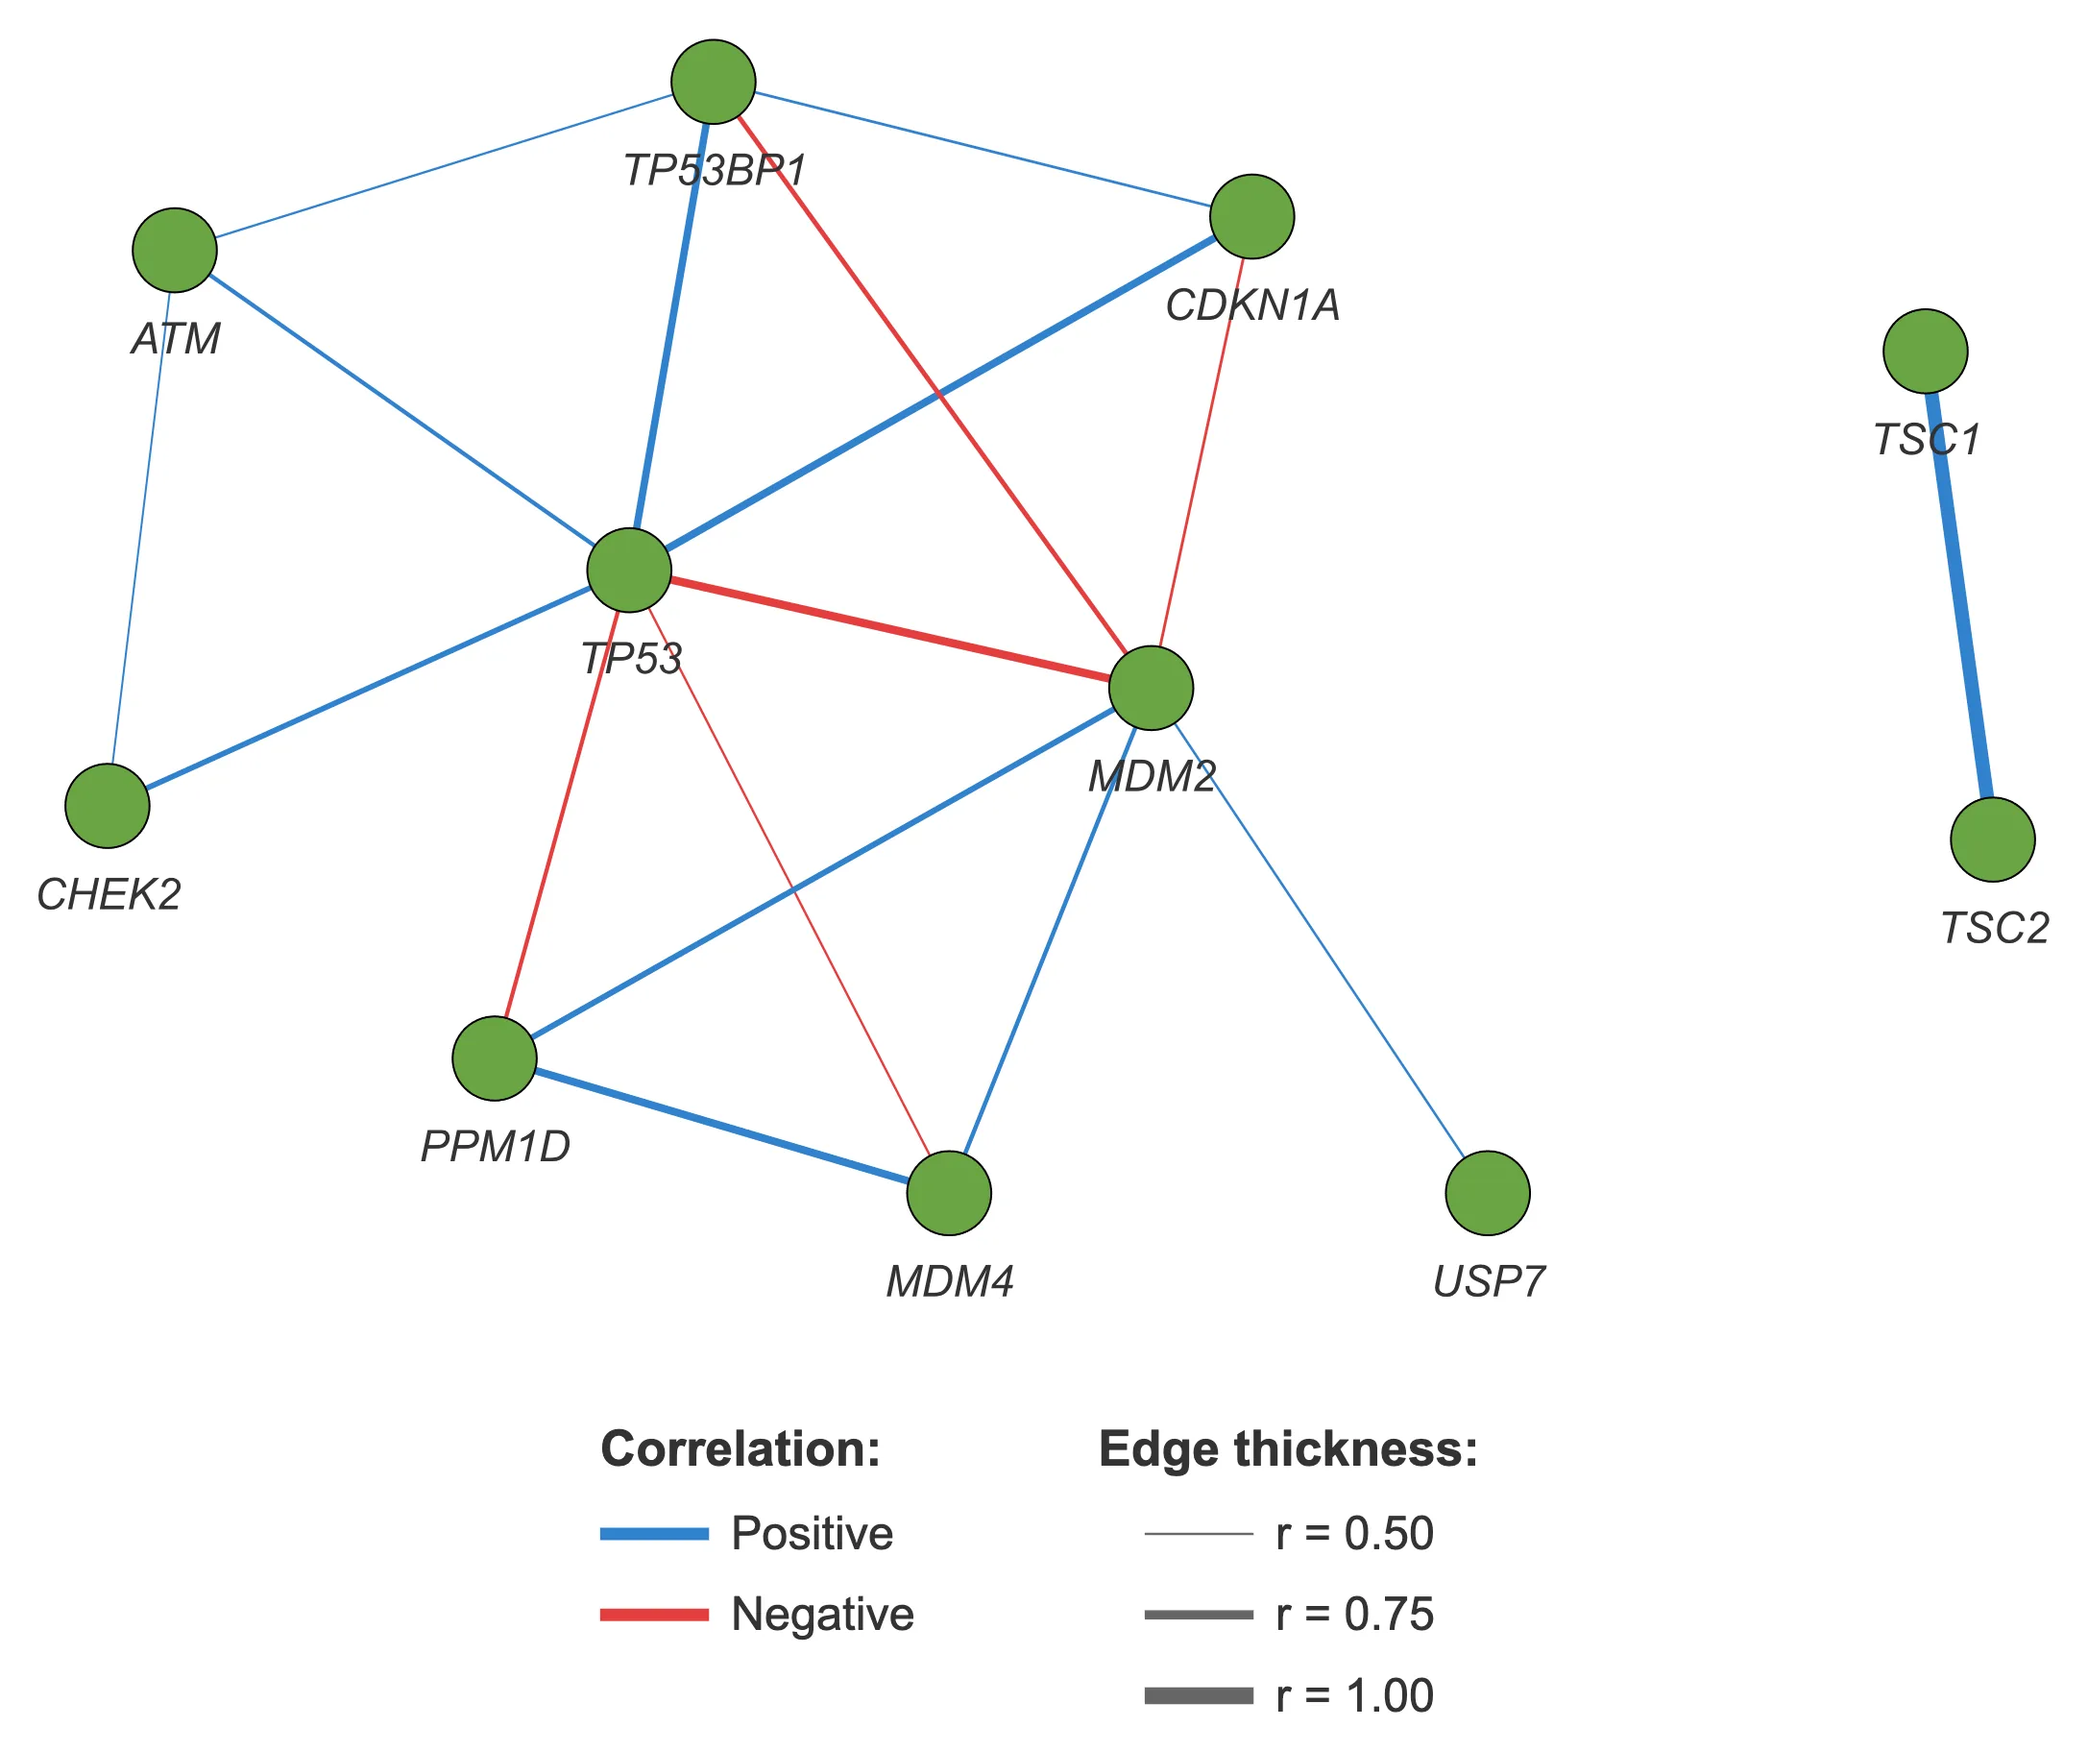
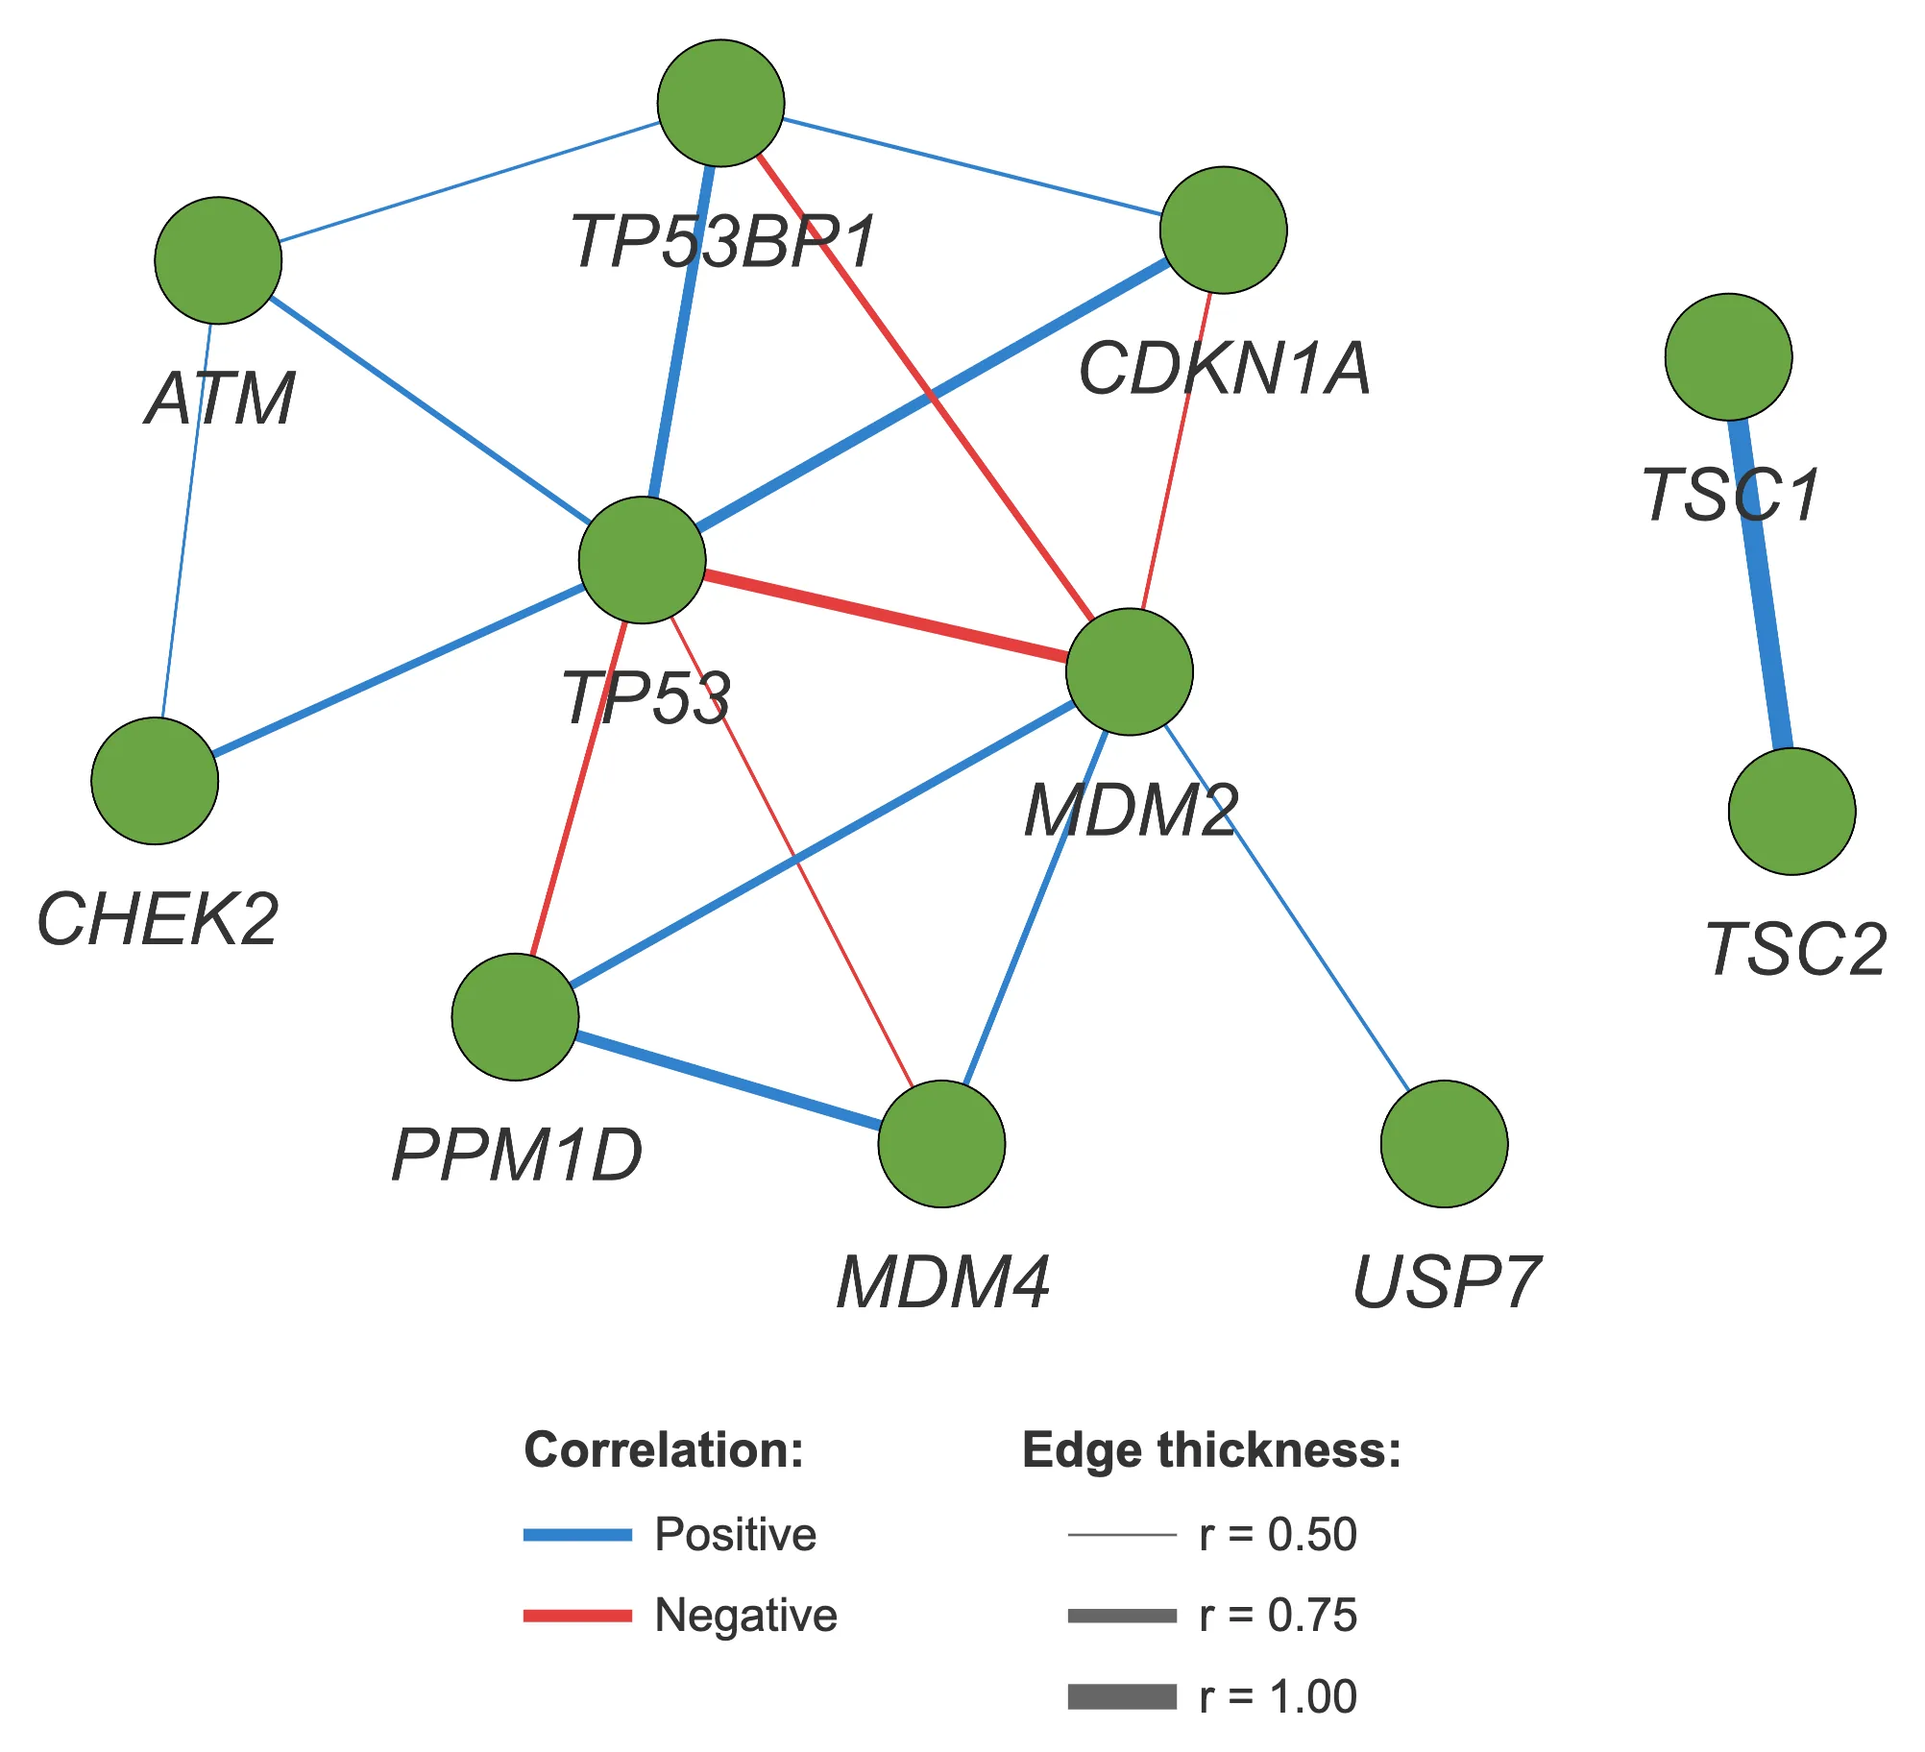
v.91.19: tour opening: the DepMap sentence is the heading and mentions the other databases, larger opening text, first network figure smaller and re-exported with larger gene labels
Claude-Session: https://claude.ai/code/session_01GrRsah6zkLaafT5s7nhzFW

diff --git a/tour.js b/tour.js
@@ -180,9 +180,8 @@
 
 <section class="tour-hero">
     <div class="tour-wrap">
-        <p class="tour-eyebrow">Correlate</p>
-        <h1>Omics data from 1,000+ human cancer cell lines, in one app.</h1>
-        <p class="tour-sub">Correlate brings together CRISPR knockout screens, mRNA expression, mutations, copy number and drug response from DepMap, and connects them. Use it to:</p>
+        <h1>Correlate brings together CRISPR knockout screens, mRNA expression, mutations, copy number and drug response from DepMap, adds gene and cell line information from many other databases, and connects them.</h1>
+        <p class="tour-sub">Use it to:</p>
         <ul class="tour-hero-list">
             <li>Find connections between genes from unbiased correlations of CRISPR gene effect or mRNA across the cell lines.</li>
             <li>Find cell lines with specific mutations and mutation patterns, and compare omics data between groups of cell lines.</li>
@@ -359,10 +358,10 @@
 #tourPage .tour-eyebrow { font-size: 12px; font-weight: 700; letter-spacing: .12em; text-transform: uppercase; color: #5d9239; margin: 0 0 10px; }
 #tourPage .tour-hero { background: linear-gradient(160deg, #1f3a12 0%, #3b5e23 55%, #4f7f30 100%); color: #fff; padding: 64px 0 0; position: relative; display: flow-root; }
 #tourPage .tour-hero .tour-eyebrow { color: #b9dd9a; }
-#tourPage .tour-hero h1 { font-size: 46px; line-height: 1.08; font-weight: 800; letter-spacing: -.02em; margin: 0 0 18px; max-width: 760px; }
-#tourPage .tour-sub { font-size: 18px; line-height: 1.6; color: #e3efd8; max-width: 720px; margin: 0 0 14px; }
-#tourPage .tour-hero-list { list-style: none; margin: 0 0 26px; padding: 0; max-width: 720px; }
-#tourPage .tour-hero-list li { font-size: 17px; line-height: 1.5; color: #fff; padding: 4px 0 4px 26px; position: relative; }
+#tourPage .tour-hero h1 { font-size: 34px; line-height: 1.25; font-weight: 700; letter-spacing: -.01em; margin: 0 0 18px; max-width: 980px; }
+#tourPage .tour-sub { font-size: 21px; line-height: 1.6; color: #e3efd8; max-width: 800px; margin: 0 0 6px; }
+#tourPage .tour-hero-list { list-style: none; margin: 0 0 26px; padding: 0; max-width: 800px; }
+#tourPage .tour-hero-list li { font-size: 20px; line-height: 1.5; color: #fff; padding: 4px 0 4px 26px; position: relative; }
 #tourPage .tour-hero-list li::before { content: ''; position: absolute; left: 4px; top: 13px; width: 9px; height: 9px; border-radius: 50%; background: #b9dd9a; }
 #tourPage .tour-cta { display: flex; flex-wrap: wrap; gap: 10px; margin-top: 18px; }
 #tourPage .tour-cta-center { justify-content: center; margin: 28px 0 18px; }
@@ -397,7 +396,7 @@
 #tourPage .tour-shot figcaption { font-size: 13px; line-height: 1.45; color: #6b7280; padding: 9px 12px 10px; border-top: 1px solid #eef0f3; background: #fff; }
 #tourPage .tour-shot-act { padding: 2px 12px 12px; background: #fff; }
 #tourPage .tour-shot-act .tour-try { width: 100%; }
-#tourPage .tour-hero-shot { max-width: 820px; }
+#tourPage .tour-hero-shot { max-width: 600px; }
 #tourPage .tour-hero-shot .tour-shot { box-shadow: 0 30px 70px rgba(0,0,0,.35); }
 #tourPage .tour-hero .tour-shot-act .tour-try { background: #5d9239; color: #fff; border-color: #5d9239; }
 #tourPage .tour-hero .tour-shot-act .tour-try:hover { background: #4f7f30; border-color: #4f7f30; }
@@ -429,7 +428,7 @@
   #tourPage .tour-flip .tour-text { order: 0; }
   #tourPage .tour-stats-in { grid-template-columns: 1fr 1fr; }
   #tourPage .tour-chips { grid-template-columns: 1fr 1fr; }
-  #tourPage .tour-hero h1 { font-size: 34px; }
+  #tourPage .tour-hero h1 { font-size: 26px; }
   #tourPage .tour-text h2 { font-size: 26px; }
   #tourPage .tour-sec { padding: 48px 0; }
 }
@@ -438,7 +437,7 @@
   #tourPage .tour-brand span, #tourPage .tour-nav { display: none; }
   #tourPage .tour-close { margin-left: auto; }
   #tourPage .tour-hero { padding-top: 40px; }
-  #tourPage .tour-hero h1 { font-size: 28px; }
+  #tourPage .tour-hero h1 { font-size: 22px; }
   #tourPage .tour-sub { font-size: 16px; }
   #tourPage .tour-hero-shot { margin-bottom: -40px; }
   #tourPage .tour-stats { padding-top: 64px; }

diff --git a/index.html b/index.html
@@ -3014,6 +3014,10 @@
                 <button onclick="this.closest('#changelogModal').style.display='none'" style="background:none;border:none;font-size:20px;cursor:pointer;">&times;</button>
             </div>
             <div style="font-size:12px; line-height:1.6; color:#374151;">
+                <p><strong>v.91.19 (2026-10-25)</strong></p>
+                <ul>
+                    <li>Tour of the app: the opening heading now says what Correlate brings together (DepMap data plus gene and cell line information from many other databases); the opening text is larger and the first network figure smaller, re-exported with larger gene labels.</li>
+                </ul>
                 <p><strong>v.91.18 (2026-10-25)</strong></p>
                 <ul>
                     <li>Tour of the app: the gene bullet in the opening list now says what the Gene Browser gathers (dependency, expression, mutations, protein complexes, drugs, literature) and from which sources, instead of "on one page".</li>
@@ -8720,7 +8724,7 @@
             </span>
             <!-- Positioned off the row's right end (see #versionBadge CSS), so
                  it sits next to YouTube without moving the centred links. -->
-            <a href="#" id="versionBadge" onclick="event.preventDefault();document.getElementById('changelogModal').style.display='flex'" style="font-family:monospace; font-size:11px; background:#f3f4f6; padding:2px 8px; border-radius:10px; color:#6b7280; border:1px solid #d1d5db; font-weight:400;">v.91.18</a>
+            <a href="#" id="versionBadge" onclick="event.preventDefault();document.getElementById('changelogModal').style.display='flex'" style="font-family:monospace; font-size:11px; background:#f3f4f6; padding:2px 8px; border-radius:10px; color:#6b7280; border:1px solid #d1d5db; font-weight:400;">v.91.19</a>
         </span>
     </div>
 
@@ -12099,6 +12103,6 @@
     </div>
 
     <script src="app.js?v=v91_14"></script>
-    <script src="tour.js?v=v91_18"></script>
+    <script src="tour.js?v=v91_19"></script>
 </body>
 </html>
